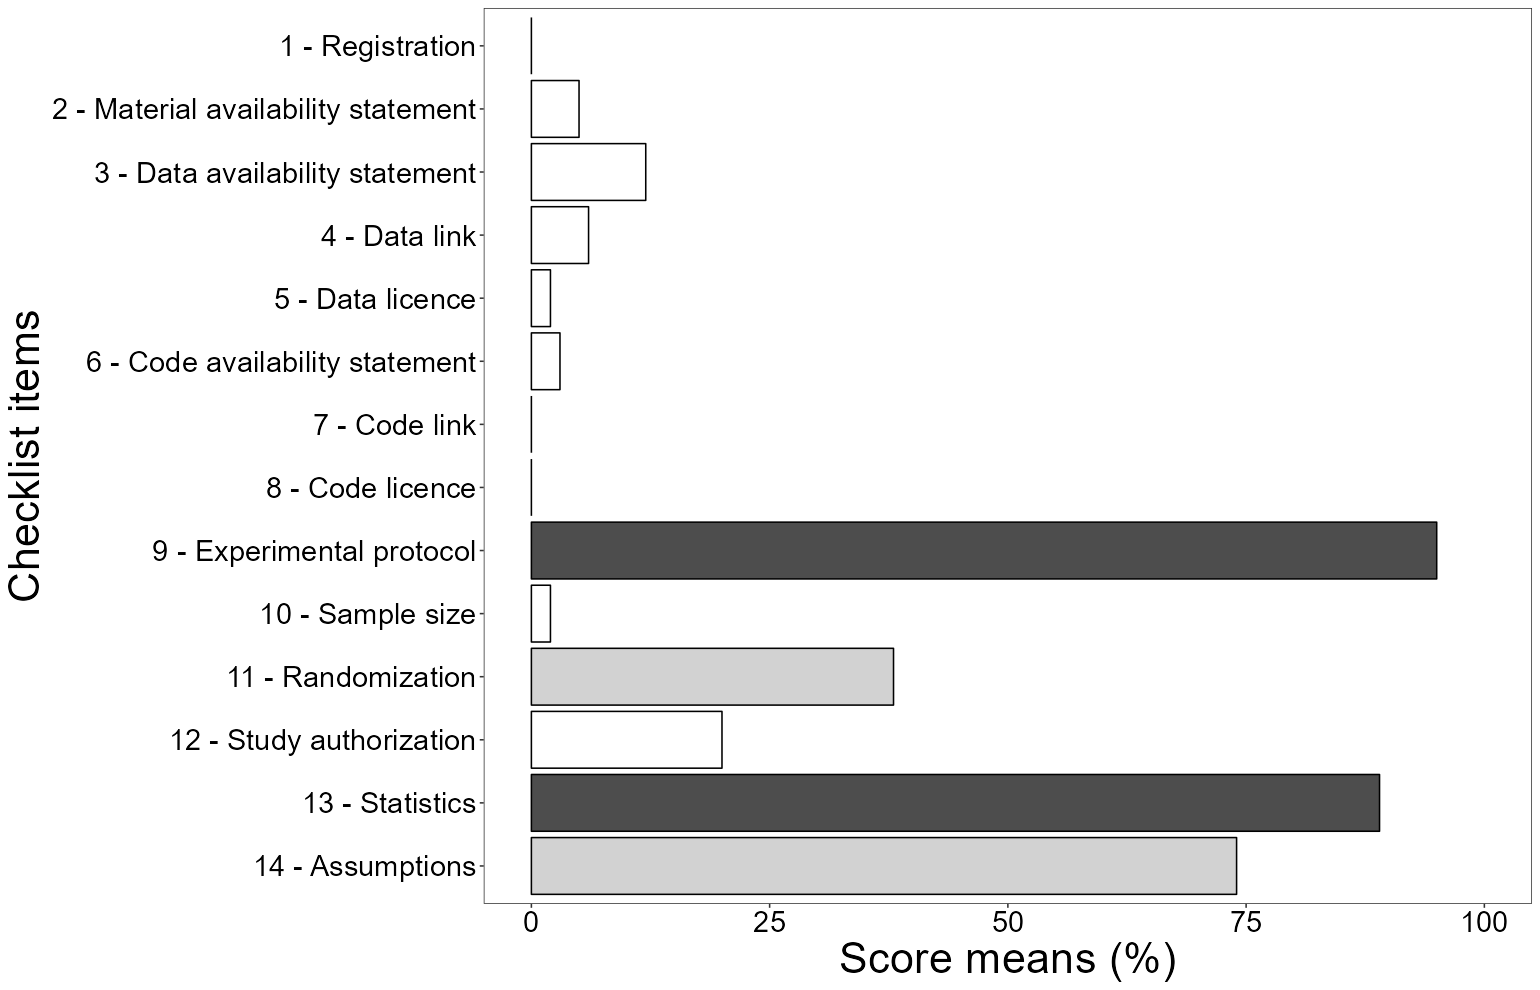
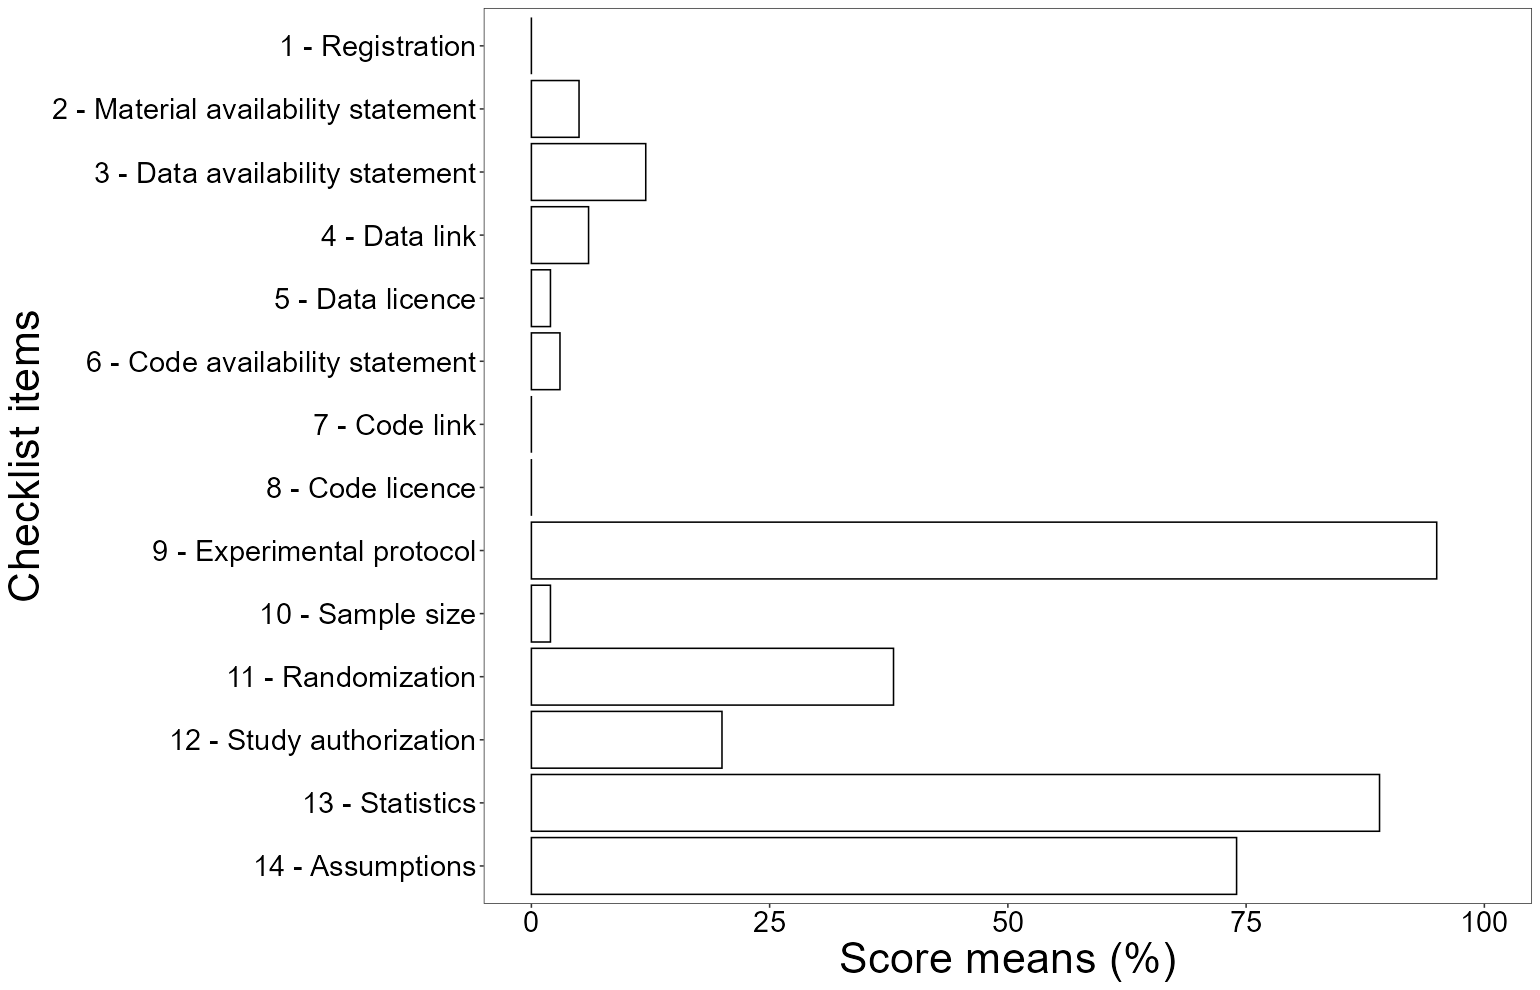
Figure S2 + final updates

Changed region(s): [[0.3429, 0.7576, 0.9039, 0.9091], [0.3429, 0.5152, 0.9351, 0.6061], [0.3429, 0.6364, 0.5922, 0.7273]]

diff --git a/README.md b/README.md
@@ -16,9 +16,10 @@ ________________________________________________________________________________
 2) Figure 2 - Figure 2 in the manuscript - scores by year and publication year.
 3) Figure 3 - Figure 3 in the manuscript, scores by item
 4) Figure S1 - Figure S1 in Supplementary (end of MS), scores by item w/ plots for each item
-5) repro - R script
-6) repro - R project
-7) scores - raw data
+5) Figure S2 - Figure S2 in Supplementary (end of MS), checklist focusing on 7 key items
+6) repro - R script
+7) repro - R project
+8) scores - raw data
 ___________________________________________________________________________________________________________
 
 **License**
